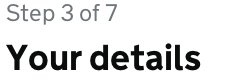
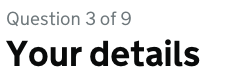
Update guidance on the progress indicator pattern

Changed region(s): [[0.0, 0.4524, 0.8088, 0.8571], [0.0279, 0.0476, 0.5299, 0.3095], [0.0558, 0.7857, 0.0837, 0.8333]]

diff --git a/service-manual/user-centred-design/resources/patterns/progress-indicators.md b/service-manual/user-centred-design/resources/patterns/progress-indicators.md
@@ -14,106 +14,81 @@ breadcrumbs:
 ---
 
 {:.intro}
-Use these to reassure users that they're making progress and give an indication 
-of how much further there is to go.
+Help people understand where they are in a transaction and give them the confidence to continue.
 
 
 ### On this page:
 
-1. [Step indicator](#step-indicator)
-2. [Progress bar](#progress-bar)
-3. [Summary menu](#summary-menu)
+1. [Start without a progress indicator](#section-1)
+2. [If you do use one, keep it simple](#progress-bar)
+3. [Avoid complex progress indicators](#section-3)
 
 ---
 
-<h2 class="heading-36" id="step-indicator">1. Step indicator</h2>
+<h2 class="heading-36" id="section-1">1. Start without a progress indicator</h2>
 
-Tell the user what step they're on.
+Test your service first without any progress indicators at all. It may be simple enough that you don't need them. If it isn't, then at least you'll discover the point at which people start to struggle.
+
+It's often the order, type or number of questions that causes issues, so try improving these first.
+
+If people still have problems then try adding a simple progress indicator.
+
+---
+
+<h2 class="heading-36" id="section-2">2. If you do use one, keep it simple</h2>
+
+If you do need a progress indicator, just add the step or question number at the top of the page, like this:
 
 <div class="example">
-  <div class="ribbon">Recommended</div>
   <div class="inner-block">
-    
+
     <img src="/service-manual/assets/images/design-patterns/step-indicator.png" alt="Example of a step indicator" />
-    
+
   </div>
 </div>
 
-**The good:**
+Only include the total number if you can do so reliably.
 
-* simple, compact and accessible
+This approach is compact, accessible and usually enough to give people the confidence to continue.
 
-**The bad:**
-
-* doesn't give details of future steps
-
-As this is the simplest approach we recommend you try it before any others.
-It's often all users need to reassure them that they're making progress.
 
 
 ---
 
-<h2 class="heading-36" id="progress-bar">2. Progress bar</h2>
-
-Show the steps horizontally across the top of the page, with the current step highlighted.
+<h2 class="heading-36" id="section-3">3. Avoid complex progress indicators</h2>
 
 <div class="example">
   <div class="inner-block">
-    
-    <img src="/service-manual/assets/images/design-patterns/progress-bar.png" alt="Example of a progress bar" />
-    
+
+    <img src="/service-manual/assets/images/design-patterns/progress-bar.png" alt="Don't use horizontal progress bars" />
+
   </div>
 </div>
 
+We recommend against these because:
 
-**The good:**
+* they're rarely used
+* they take up valuable space
+* they don't scale well on small screens
+* they can distract and confuse some people
+* it's hard to write good labels for the steps
+* it's hard to handle conditional questions
 
-* provides an overiew of the entire process
-* steps can be used as navigation
-
-
-**The bad:**
-
-* takes up a lot of space, particularly on small screen devices
-* adds visual noise which may distract from the important content
+Complex progress indicators have been safely removed from a number of services on GOV.UK. For example, the Carer's Allowance team removed a 12-step horizontal progress indicator from their live service, with no effect on completion rates or times.
 
 
-**Guidance:**
+# Progress indicators as navigation
 
-* don't assume you'll need one of these
-* only use with a small, fixed sequence of steps
-* number the steps to reinforce their sequential nature
-* don't rely on progress bars for navigation - you'll still need to provide 'Back' and 'Next' links on each screen
+We occasionally see progress indicators (usually vertical ones) used as navigation. These suffer from many of the issues listed above.
+
+If people really need to be able to jump around the transaction, try meeting this need on a separate page.
+
 
 ---
 
-<h2 class="heading-36" id="summary-menu">3. Summary menu</h2>
+<h2 class="heading-36" id="section-4">Further reading</h2>
 
-[This pattern is still under discussion](https://designpatterns.hackpad.com/Progress-indicators-3AOrLoia9Us)
-
-Provide a vertical list of links to each section. Let users complete the sections in any order.
-
-<div class="example">
-  <div class="inner-block">
-  
-    <img src="/service-manual/assets/images/design-patterns/summary-menu.png" alt="Example of a summary menu" />
-
-  </div>
-</div>
-
-**The good:**
-
-* section titles can be longer
-* room for more sections
-* users can complete sections in an order that suits them
-* users can jump around and preview sections before completing them
-
-
-**The bad:**
-
-* takes up a lot of space
-* requires more effort to implement
-* some usability challenges - for example, letting users know they've finished all the sections
+* [Do Less: Problems as shared spaces](https://designnotes.blog.gov.uk/2014/07/07/do-less-problems-as-shared-spaces/). Ben Holliday talks about removing the progress indicator from the Carer's Allowance service.
 
 
 ---
